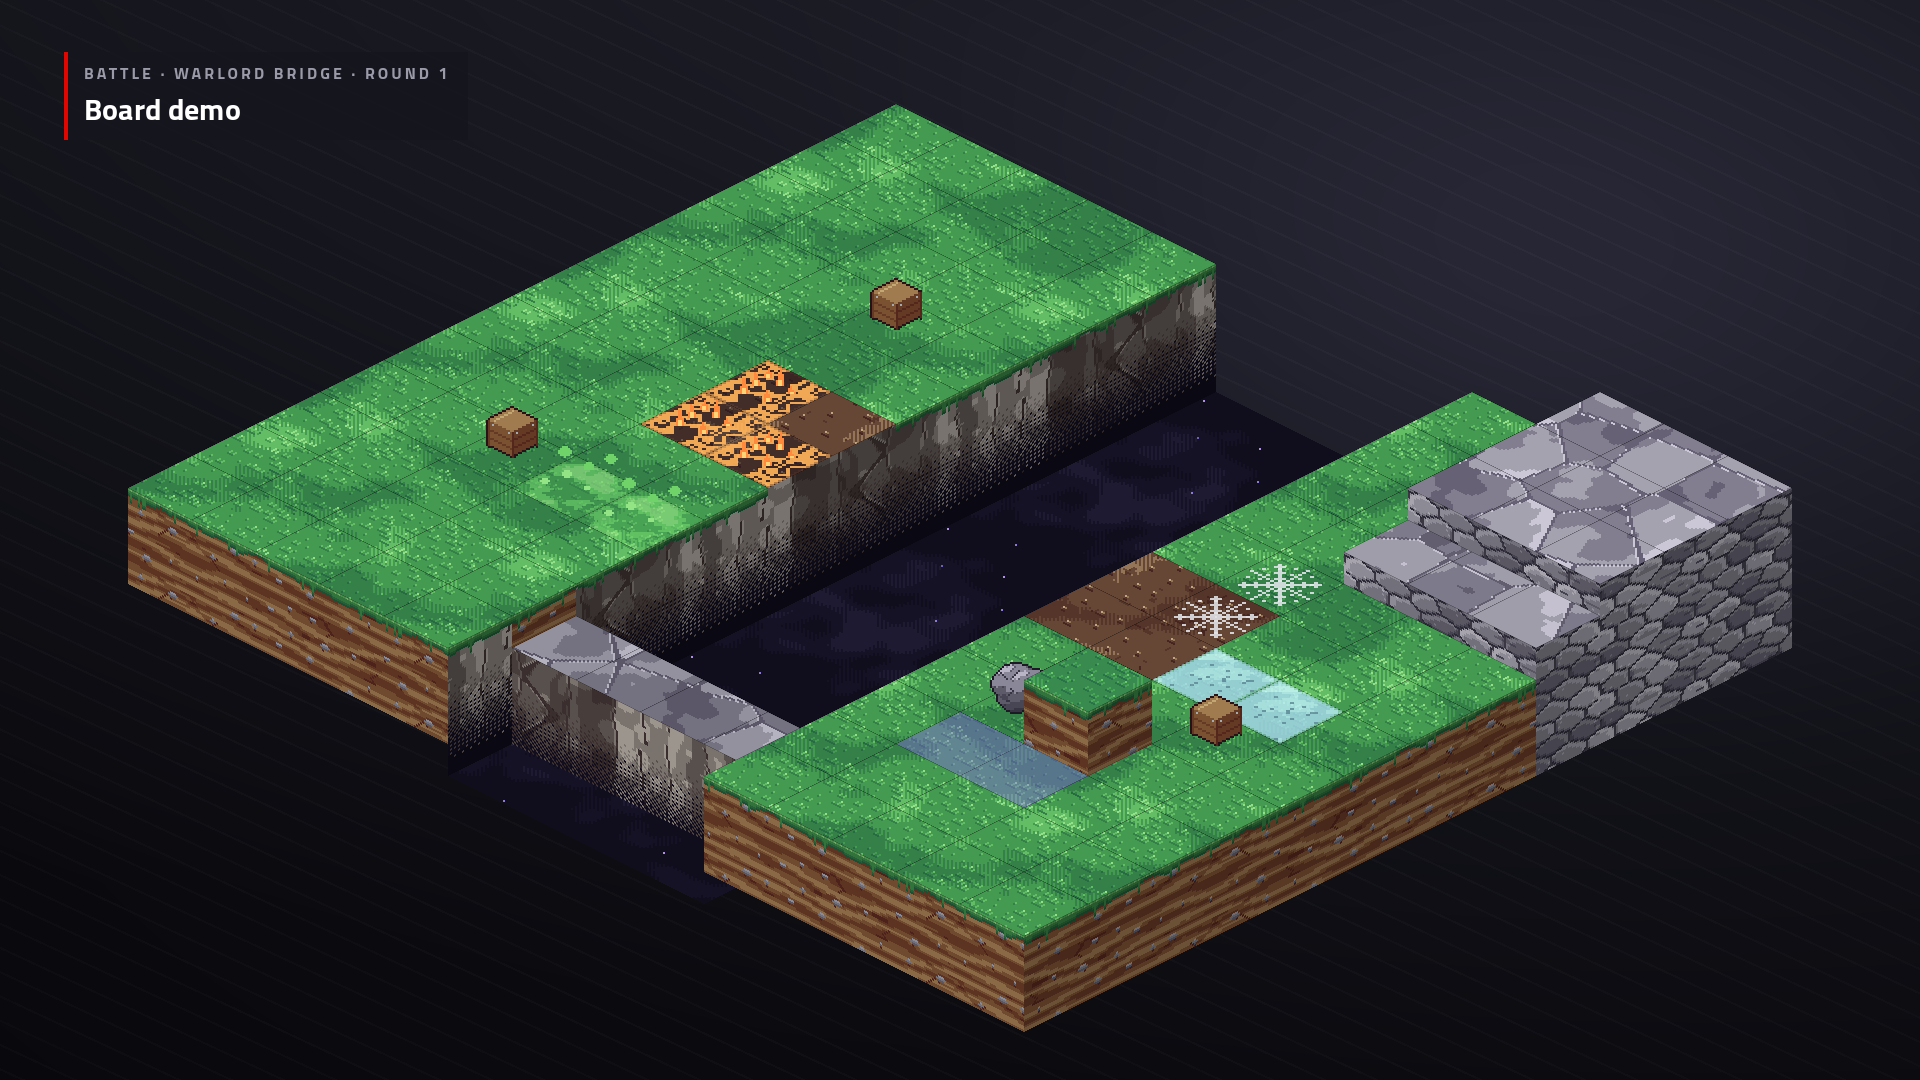
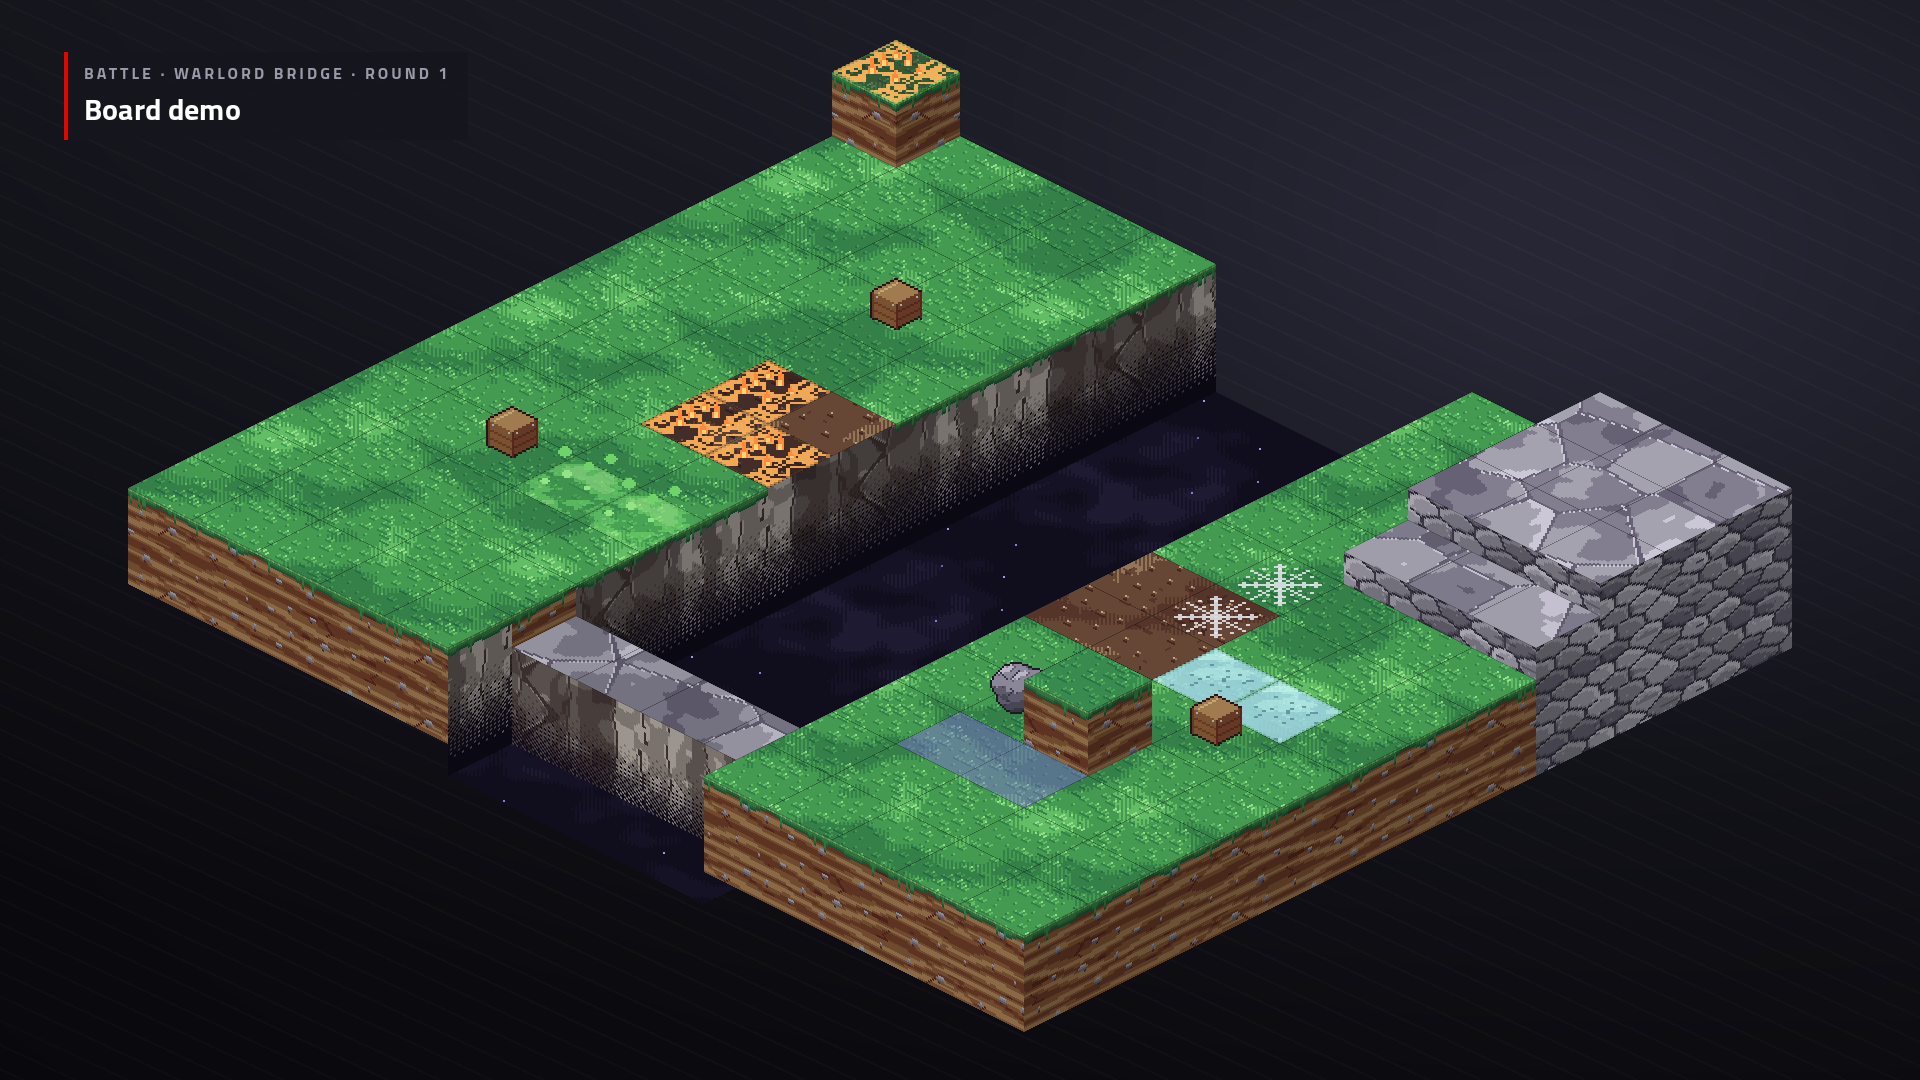
fix(tactics-tv): keep the board's fit for the whole battle
The fit came from each view's bounds, which include battle changes and
zone sprites, so a raised back corner could halve the board mid-fight and
a zone there could shift it. It now comes once per map from the map file.
What grows past that runs off the screen: it clips, it never rescales.
The skirt's depth also comes from the file now.

Changed region(s): [[0.4062, 0.0306, 0.5, 0.1528]]

diff --git a/games/Tactics/Tactics.Presentation.Tests/Board/BoardFitTests.cs b/games/Tactics/Tactics.Presentation.Tests/Board/BoardFitTests.cs
@@ -1,4 +1,7 @@
+using System.Collections.Immutable;
 using System.Numerics;
+using Tactics.Game;
+using Tactics.Logic;
 using Tactics.Presentation.Board;
 
 namespace Tactics.Presentation.Tests.Board;
@@ -6,6 +9,8 @@ namespace Tactics.Presentation.Tests.Board;
 /// <summary><see cref="BoardFit"/>: the board at a whole multiple of the art, centred in the room the HUD leaves it.</summary>
 public sealed class BoardFitTests
 {
+    private const int MaxHeight = 9;    // AlterTerrainBlock's limit (Effects/Blocks/MapBlocks.cs)
+
     [Fact]
     public void Takes_the_largest_whole_scale_that_fits()
     {
@@ -37,6 +42,67 @@ public sealed class BoardFitTests
         Assert.Equal(MathF.Round(fit.Origin.X), fit.Origin.X);
         Assert.Equal(MathF.Round(fit.Origin.Y), fit.Origin.Y);
     }
+
+    private static readonly Tile BackCorner = new(0, 0);
+
+    private static BoardFit FitOf(string map, BoardChanges? changes = null)
+        => BoardFit.For(new BoardTerrain(Pack.Map(map), changes), Pack.Art);
+
+    private static BoardPlan PlanOf(string map, BoardChanges? changes = null)
+        => BoardPlan.Build(new BoardTerrain(Pack.Map(map), changes), Pack.Art);
+
+    private static BoardChanges Raise(Tile tile, int delta) => new([], [new HeightChange(tile, delta)], []);
+
+    [Theory]
+    [InlineData("crypt_hall", 2)]       // one Stone Spire on the wall: the board used to halve
+    [InlineData("warlord_bridge", 4)]   // two raises, likewise
+    [InlineData("crystal_cave", 4)]
+    [InlineData("river_crossing", 1)]   // a small raise, which used to recentre it
+    public void A_raised_back_corner_leaves_the_scale_and_offset_alone(string map, int delta)
+    {
+        var raised = Raise(BackCorner, delta);
+
+        Assert.True(PlanOf(map, raised).Min.Y < PlanOf(map).Min.Y);   // the board really did grow past its old bounds
+        Assert.Equal(FitOf(map), FitOf(map, raised));
+    }
+
+    [Theory]
+    [InlineData("river_crossing")]
+    [InlineData("forest_ruins")]
+    public void A_zone_on_the_back_corner_leaves_the_scale_and_offset_alone(string map)
+    {
+        var fire = new BoardChanges([new ZoneView(1, "fire", [BackCorner])], [], []);
+
+        Assert.True(PlanOf(map, fire).Min.Y < PlanOf(map).Min.Y);     // its flames poke above the corner
+        Assert.Equal(FitOf(map), FitOf(map, fire));
+    }
+
+    [Fact]
+    public void Sinking_the_bridge_leaves_the_scale_and_offset_alone()
+    {
+        ImmutableArray<Tile> bridge = [new Tile(5, 5), new Tile(6, 5)];
+
+        Assert.Equal(FitOf("warlord_bridge"), FitOf("warlord_bridge", new BoardChanges([], [.. bridge.Select(t => new HeightChange(t, -2))], bridge)));
+    }
+
+    [Theory]
+    [MemberData(nameof(MapIds))]
+    public void The_rules_maximum_height_on_the_back_corner_clips_rather_than_rescales(string map)
+    {
+        var height = Pack.Map(map)[BackCorner].Height;
+
+        var fit = FitOf(map, Raise(BackCorner, MaxHeight - height));
+
+        Assert.Equal(FitOf(map), fit);
+        Assert.Equal(2, fit.Scale);
+    }
+
+    [Theory]
+    [MemberData(nameof(MapIds))]
+    public void The_rules_maximum_height_stays_on_screen_from_five_tiles_in(string map)
+        => Assert.True(FitOf(map).ToScreen(BoardProjection.Corner(5, 0, MaxHeight)).Y >= 0);
+
+    public static TheoryData<string> MapIds() => new(Pack.Maps);
 
     [Fact]
     public void To_screen_scales_from_the_origin()

diff --git a/games/Tactics/Tactics.Presentation/Board/DemoBattle.cs b/games/Tactics/Tactics.Presentation/Board/DemoBattle.cs
@@ -6,7 +6,8 @@ namespace Tactics.Presentation.Board;
 
 /// <summary>
 /// Dev-only views for <c>--tactics-demo=&lt;map&gt;[:changed]</c>: a battle on a map with no server, so the board can be
-/// looked at. <c>:changed</c> adds what a fight does to a map: zones, a raised tile and the bridge's tiles sunk.
+/// looked at. <c>:changed</c> adds what a fight does to a map: zones, raised tiles (one on the back corner, burning, which
+/// must leave the board where it was) and the bridge's tiles sunk.
 /// </summary>
 public static class DemoBattle
 {
@@ -17,13 +18,13 @@ public static class DemoBattle
         ImmutableArray<Tile> bridge = [.. Enumerable.Range(5, 2).SelectMany(y => Enumerable.Range(5, 4).Select(x => new Tile(x, y)))];
         return new BoardChanges(
             [
-                new ZoneView(1, "fire", [new Tile(3, 5), new Tile(3, 6), new Tile(4, 6)]),
+                new ZoneView(1, "fire", [new Tile(0, 0), new Tile(3, 5), new Tile(3, 6), new Tile(4, 6)]),
                 new ZoneView(2, "web", [new Tile(10, 4), new Tile(10, 5)]),
                 new ZoneView(3, "ice", [new Tile(11, 6), new Tile(12, 6)]),
                 new ZoneView(4, "poison", [new Tile(3, 8), new Tile(4, 8)]),
                 new ZoneView(5, "grand_sigil", [new Tile(10, 9), new Tile(11, 9)]),
             ],
-            [.. bridge.Select(t => new HeightChange(t, -2)), new HeightChange(new Tile(11, 8), 2)],
+            [.. bridge.Select(t => new HeightChange(t, -2)), new HeightChange(new Tile(11, 8), 2), new HeightChange(new Tile(0, 0), 2)],
             bridge);
     }
 

diff --git a/src/ArcBox.Host/games/tactics/TacticsScene.cs b/src/ArcBox.Host/games/tactics/TacticsScene.cs
@@ -36,6 +36,7 @@ public partial class TacticsScene : Control, IGameScene, IContentScene, ISignali
     private Label _battleTitle = null!;
     private ArtIndex? _art;
     private BattleMap? _map;
+    private BoardFit? _fit;
     private string? _unreadableMap;
     private Screenshotter? _shots;
     private IReadOnlyDictionary<string, string> _content = new Dictionary<string, string>();
@@ -142,9 +143,10 @@ public partial class TacticsScene : Control, IGameScene, IContentScene, ISignali
             if (_map?.Id != battle.Map)
             {
                 _map = BoardMap.Parse(File.ReadAllText(Path.Combine(root, "rules", "maps", $"{battle.Map}.json")));
+                _fit = BoardFit.For(new BoardTerrain(_map, null), _art);   // once per map: a fight never moves the board
             }
-            var plan = BoardPlan.Build(new BoardTerrain(_map, battle.Board), _art);
-            _board.SetPlan(plan, BoardFit.Of(plan.Min, plan.Max), root);
+            var terrain = new BoardTerrain(_map, battle.Board);
+            _board.SetPlan(BoardPlan.Build(terrain, _art), _fit ?? throw new InvalidOperationException("A map with no fit."), root);
             return true;
         }
         catch (Exception ex) when (ex is IOException or JsonException or FormatException or ArgumentException

diff --git a/games/Tactics/Tactics.Presentation/Board/BoardFit.cs b/games/Tactics/Tactics.Presentation/Board/BoardFit.cs
@@ -22,6 +22,18 @@ public sealed record BoardFit(Vector2 Origin, float Scale)
     /// </summary>
     public static BoardArea Area { get; } = new(32, 72, 1856, 992);
 
+    /// <summary>
+    /// The fit for a battle on <paramref name="terrain"/>'s map, which stays the same for the whole battle: it comes from
+    /// the map as its file has it, whatever the battle has done to it, so nothing a fight does can move or shrink the board.
+    /// What grows past those bounds runs into the top strip and, past that, off the screen: a raised tile clips, it doesn't
+    /// rescale. The rules' maximum height (9) stays on screen from five tiles in from the back corner.
+    /// </summary>
+    public static BoardFit For(BoardTerrain terrain, ArtIndex art)
+    {
+        var plan = BoardPlan.Build(new BoardTerrain(terrain.Map, null), art);
+        return Of(plan.Min, plan.Max);
+    }
+
     /// <summary>The fit for a board covering <paramref name="min"/> to <paramref name="max"/> in art pixels.</summary>
     public static BoardFit Of(Vector2 min, Vector2 max)
     {

diff --git a/games/Tactics/Tactics.Presentation.Tests/Board/BoardPlanTests.cs b/games/Tactics/Tactics.Presentation.Tests/Board/BoardPlanTests.cs
@@ -100,6 +100,14 @@ public sealed class BoardPlanTests
     }
 
     [Fact]
+    public void A_lowered_tile_does_not_deepen_the_skirt_around_the_whole_board()
+    {
+        var map = Map(["rock/grey"], [], "1:0:0 1:0:0");
+
+        Assert.Equal(new BoardTerrain(map, null).Base, new BoardTerrain(map, new BoardChanges([], [new HeightChange(new Tile(0, 0), -1)], [])).Base);
+    }
+
+    [Fact]
     public void A_lip_lies_over_the_top_of_a_side_under_a_top_that_has_one()
     {
         var plan = Plan(Map(["grass/lush"], [], "2:0:0 0:0:0"));
@@ -300,7 +308,7 @@ public sealed class BoardPlanTests
         Assert.All(Faces(plan), f => Assert.NotNull(f.Image));
         Assert.Equal(map.Props.Length, plan.Items.OfType<Sprite>().Count());
         Assert.All(plan.Items.OfType<Sprite>(), s => Assert.True(File.Exists(Path.Combine(Pack.Root, s.Image.Path))));
-        Assert.Equal(2, BoardFit.Of(plan.Min, plan.Max).Scale);
+        Assert.Equal(2, BoardFit.For(new BoardTerrain(map, null), Pack.Art).Scale);
     }
 
     [Theory]

diff --git a/games/Tactics/Tactics.Presentation/Board/BoardTerrain.cs b/games/Tactics/Tactics.Presentation/Board/BoardTerrain.cs
@@ -60,7 +60,7 @@ public sealed class BoardTerrain
             var i = tile.Y * width + tile.X;
             var height = terrain.HeightAt(tile);
             var deep = terrain.Deep(tile);
-            lowest = Math.Min(lowest, height);
+            lowest = Math.Min(lowest, map[tile].Height);
             _looks[i] = sunk.Contains(tile) ? chasm : looks[map[tile].Material];
             _deep[i] = deep;
             _tops[i] = height + (_looks[i].Void ? -VoidSink
@@ -77,7 +77,7 @@ public sealed class BoardTerrain
     /// <summary>What the battle changed.</summary>
     public BoardChanges Changes { get; }
 
-    /// <summary>The height the board's outer skirt goes down to, in steps.</summary>
+    /// <summary>The height the board's outer skirt goes down to, in steps: from the map file, so a fight doesn't change it.</summary>
     public float Base { get; }
 
     /// <summary>Every tile, row by row.</summary>

diff --git a/docs/tv-host.md b/docs/tv-host.md
@@ -52,7 +52,7 @@ Everything after `--` on the Godot command line; all optional.
 | `--autostart=<game>[:<players>]` | Dev only: select that game, and start it once that many players (default 1) are connected and the scene is ready. First game only. Used by `tools/tv-e2e.sh`. |
 | `--res=<w>x<h>` | Window size. The UI is laid out at 1920×1080 and scales (`canvas_items`, `expand`). |
 | `--redline-demo[=<step>]` | Dev only: play a scripted REDLINE race into the TV without a server (see below). |
-| `--tactics-demo[=<map>[:changed]]` | Dev only: show a Tactics board without a server, with the art from the repository's `content/` (default `river_crossing`). `:changed` adds zones, a raised tile and the bridge's tiles sunk. With `--shots` it saves `…-tactics-battle-<map>.png`. |
+| `--tactics-demo[=<map>[:changed]]` | Dev only: show a Tactics board without a server, with the art from the repository's `content/` (default `river_crossing`). `:changed` adds zones, raised tiles and the bridge's tiles sunk. With `--shots` it saves `…-tactics-battle-<map>.png`. |
 | `--demo=campaign-lobby` | Dev only: show the lobby with a built-in campaign game selected, its campaign list and a roster with seated and away members (`Shell/CampaignLobbyDemo.cs`), without a server. With `--shots` it saves `001-lobby.png`. |
 
 Unknown arguments are reported as warnings and ignored.
@@ -173,7 +173,7 @@ tests; the Godot class only draws.
 quads, at twice the art's size on the 1080p layout. `Tactics.Presentation/Board` works everything out: `BoardProjection` is
 the only code that knows the projection, `BoardTerrain` is the map plus what the battle changed (a tile's `Centre` is where
 anything stands on it), `BoardPlan` is every face and sprite in painter's order (`BoardOrder.Key` is how later things sort
-in), `BoardFit` puts it on the screen and `MaterialLook` picks the sides that go with a map's materials. `BoardCanvas` only
+in), `BoardFit` puts it on the screen, fixed from the map file for the whole battle, and `MaterialLook` picks the sides that go with a map's materials. `BoardCanvas` only
 draws the plan. Zones, height changes and sunk tiles come from the host view's `battle.board`, which phones don't get.
 
 To run the TV against a real game without
